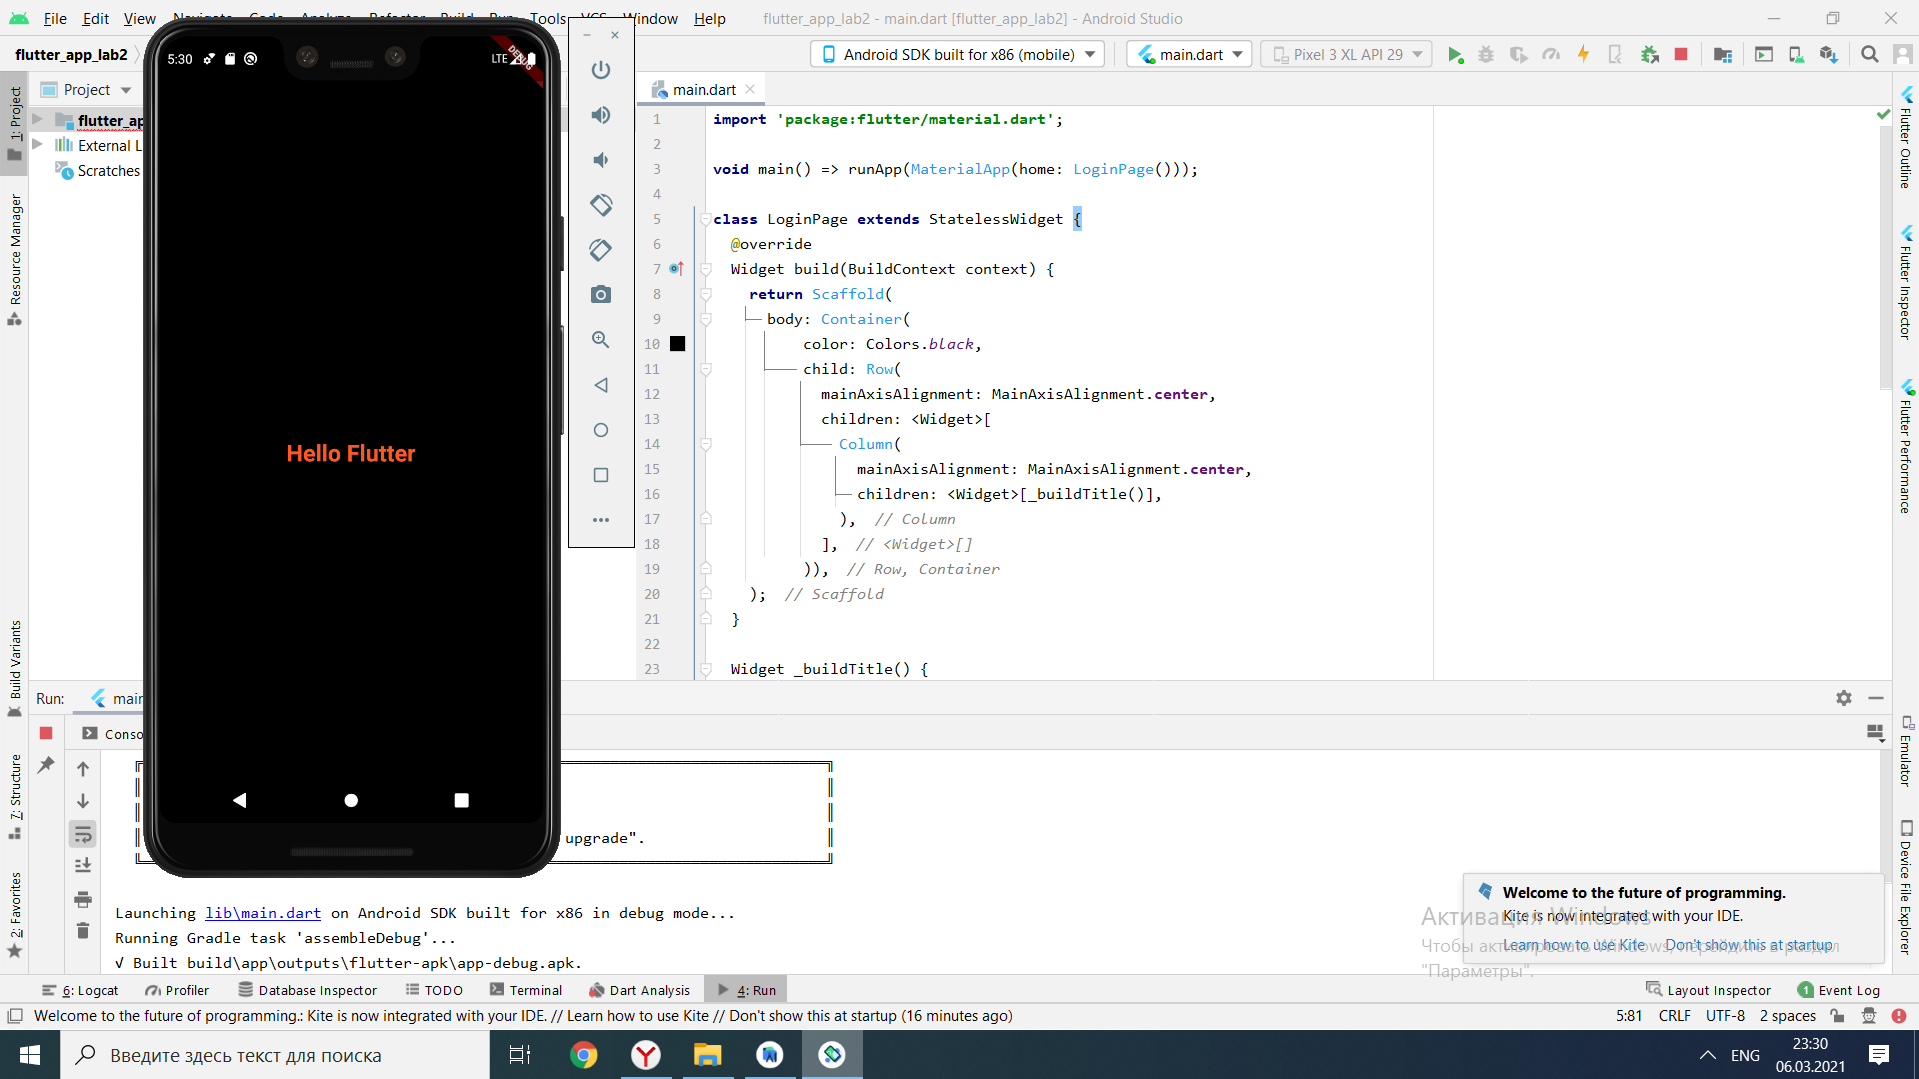
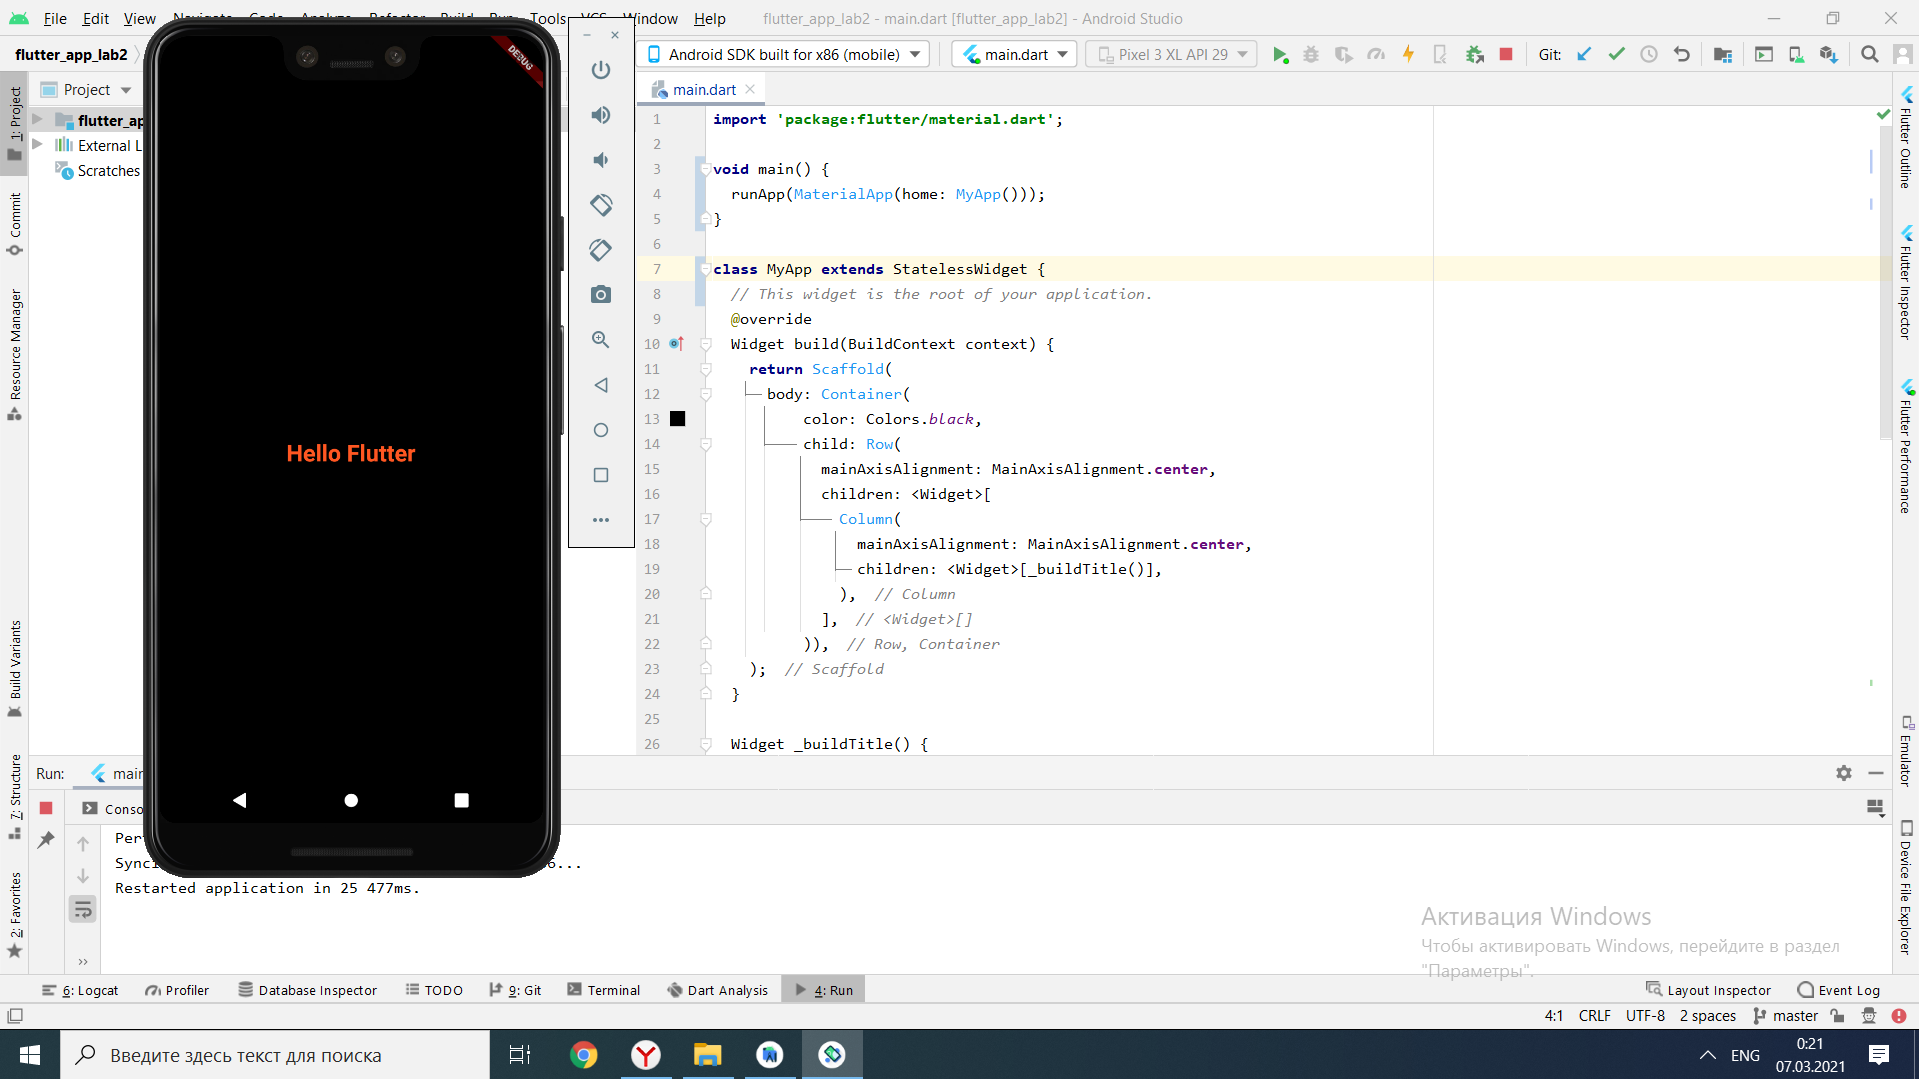
update

diff --git a/lib/main.dart b/lib/main.dart
@@ -1,8 +1,11 @@
 import 'package:flutter/material.dart';
 
-void main() => runApp(MaterialApp(home: LoginPage()));
+void main() {
+  runApp(MaterialApp(home: MyApp()));
+}
 
-class LoginPage extends StatelessWidget {
+class MyApp extends StatelessWidget {
+  // This widget is the root of your application.
   @override
   Widget build(BuildContext context) {
     return Scaffold(
